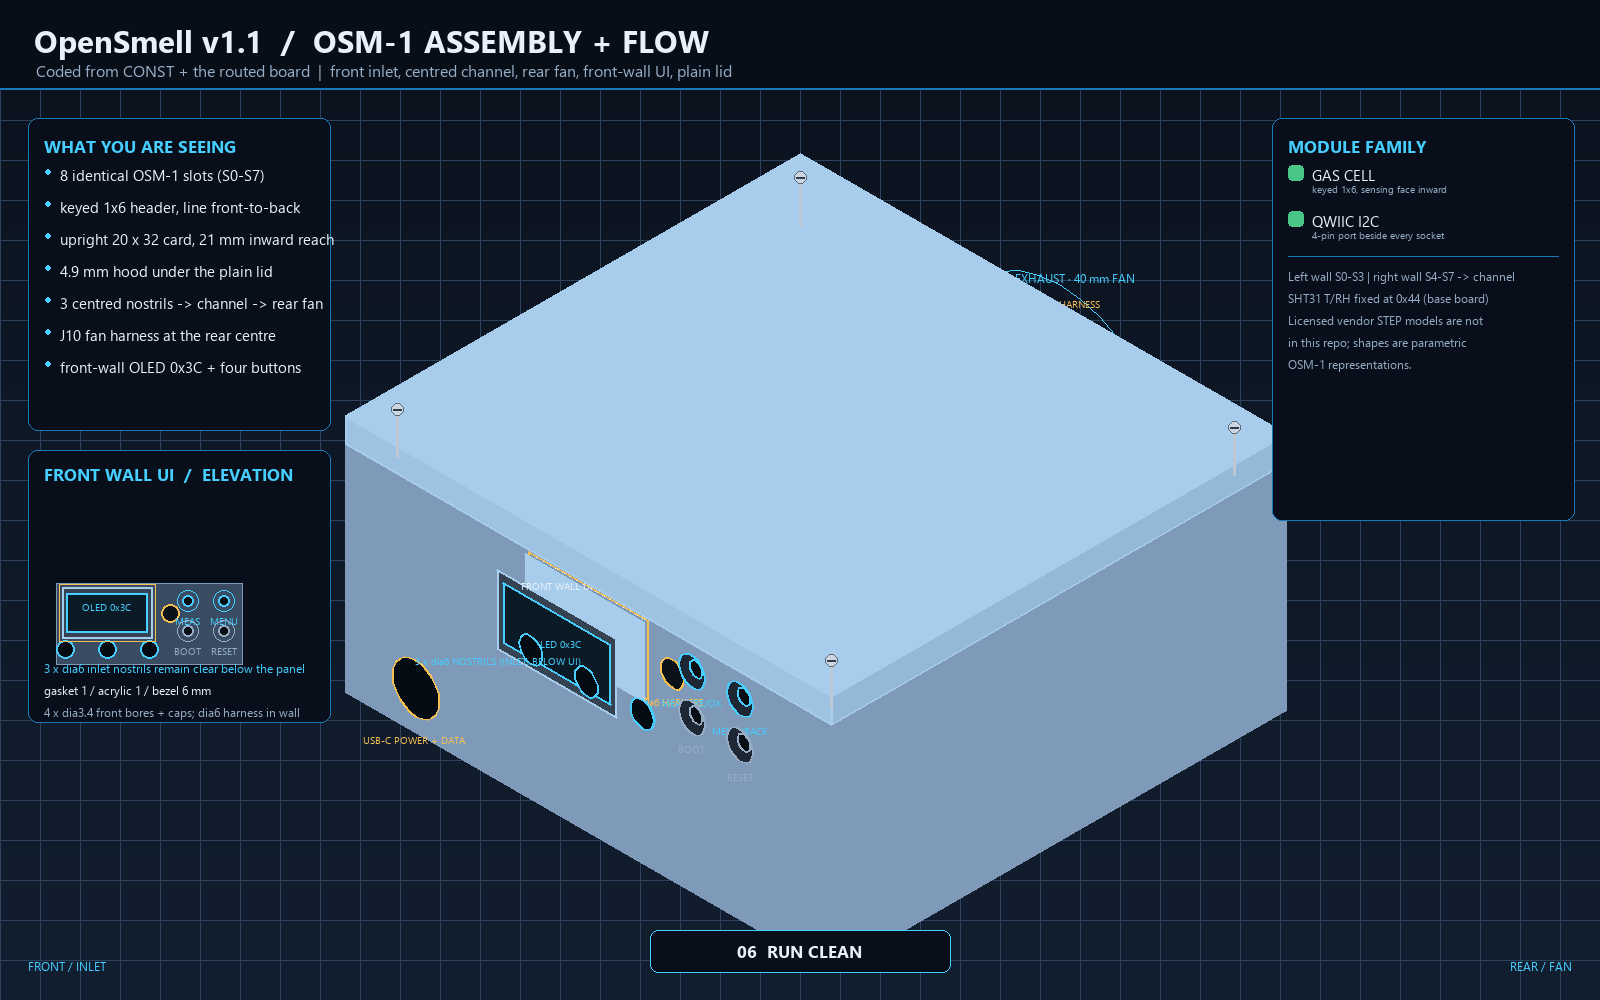
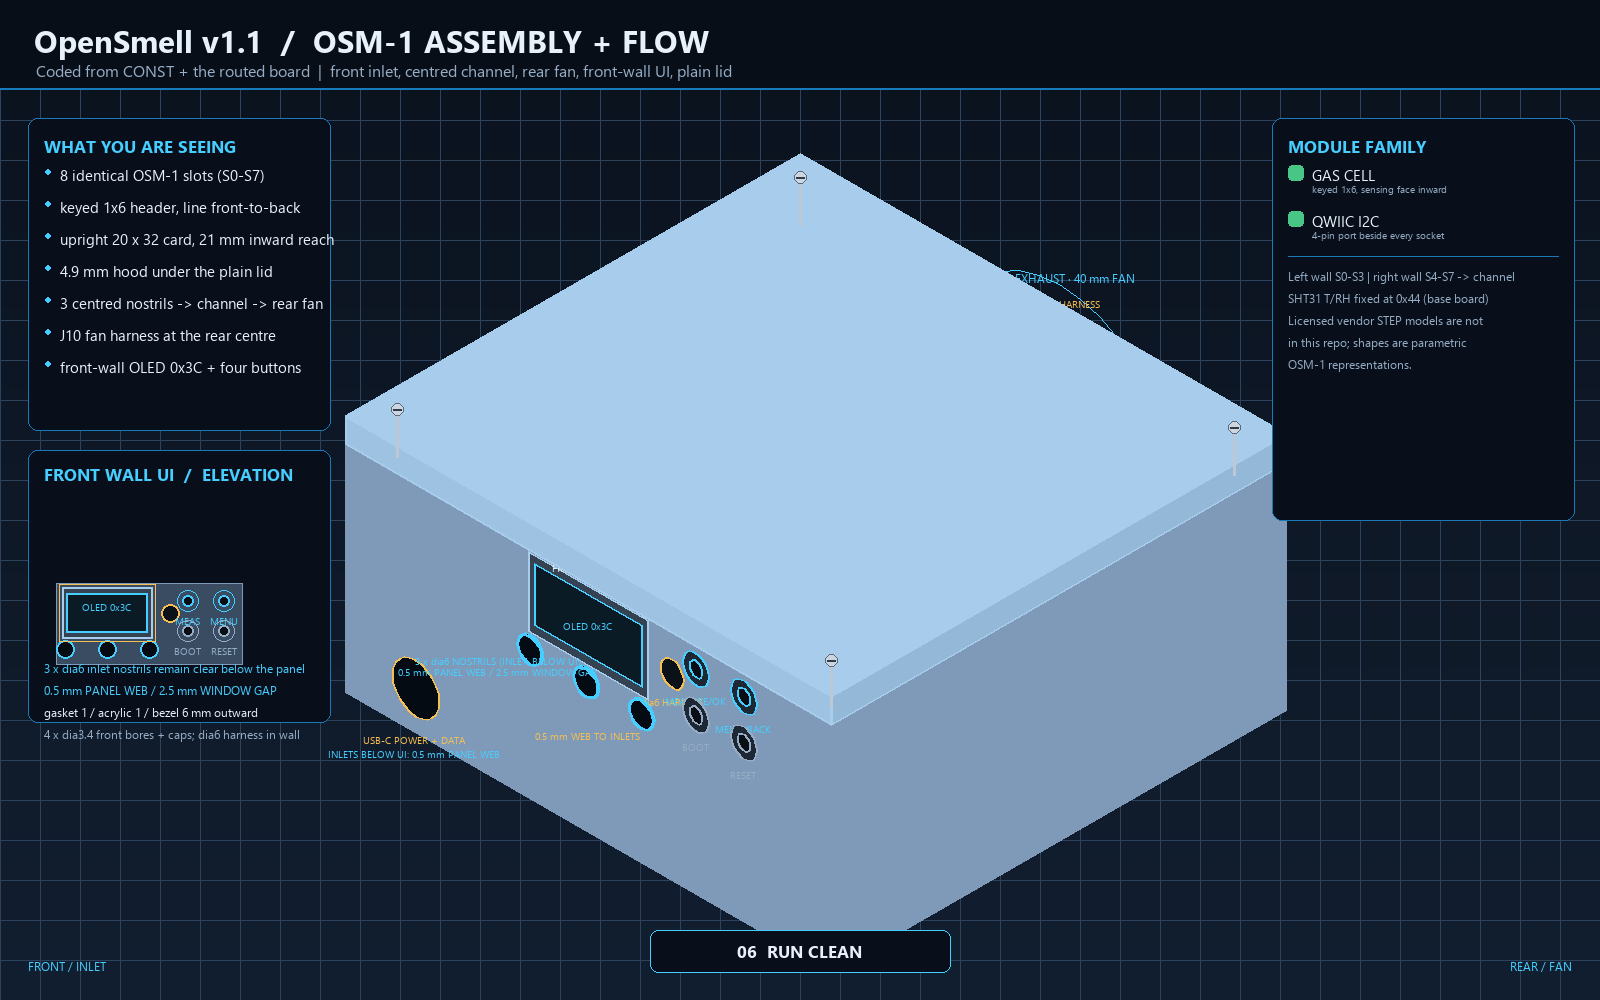
Clarify front-wall UI clearance visuals

Changed region(s): [[0.3125, 0.558, 0.4688, 0.744], [0.0312, 0.682, 0.1875, 0.744], [0.2188, 0.744, 0.25, 0.775]]

diff --git a/tools/render_assembly_visual.py b/tools/render_assembly_visual.py
@@ -60,6 +60,12 @@ WIN_X1 = CONST["DISP_X"] + CONST["DISP_WIN_W"] / 2.0
 WIN_Z0 = CONST["DISP_Z"] - CONST["DISP_WIN_H"] / 2.0
 WIN_Z1 = CONST["DISP_Z"] + CONST["DISP_WIN_H"] / 2.0
 BTN_FRONT = {k: list(v) for k, v in CONST["BTN_FRONT"].items()}
+PANEL_WEB = DISP_Z0 - (CONST["NO_Z"] + CONST["NO_R"])
+WINDOW_GAP = WIN_Z0 - (CONST["NO_Z"] + CONST["NO_R"])
+# The iso view projects the sealed UI on its mounting plane.  True outward
+# depths are dimensioned in the front-wall proof and in the elevation inset;
+# this keeps the inlet bores directly below the panel footprint.
+FRONT_UI_ISO_Y = -0.05
 
 GEOMETRY = {
     "source": "mechanical/constants.py + routed pcb_geometry.json",
@@ -618,27 +624,34 @@ def draw_shell_near(d):
     vcircle(d, CONST["USB_X"], -0.4, CONST["USB_Z"], CONST["USB_R"],
             (5, 11, 19, 255), (*C_GOLD, 190), 2, 24)
     p = P(CONST["USB_X"], -1, CONST["USB_Z"] - CONST["USB_R"] * 1.8)
+    txt(d, (p[0], p[1] + 14), "INLETS BELOW UI: %.1f mm PANEL WEB" % PANEL_WEB,
+        F_TINY, (*C_CYAN, 220), "mm")
     txt(d, (p[0], p[1]), "USB-C POWER + DATA", F_TINY, (*C_GOLD, 220), "mm")
 
 
 def draw_nostril_callout(d):
-    """Keep the inlet bores legible where the bezel projection overlaps them."""
+    """Keep the inlet bores legible in front of the panel projection."""
     for nx in NO_X:
-        vcircle(d, nx, -0.6, CONST["NO_Z"], CONST["NO_R"],
-                (5, 11, 19, 255), (*C_CYAN, 240), 2, 24)
-    p = P(NO_X[0] - 8, -0.8, CONST["NO_Z"] - CONST["NO_R"] * 2.1)
+        vcircle(d, nx, -0.8, CONST["NO_Z"], CONST["NO_R"],
+                (5, 11, 19, 255), (*C_CYAN, 255), 3, 24)
+    p = P(NO_X[0] - 8, -0.9, CONST["NO_Z"] - CONST["NO_R"] * 2.1)
     txt(d, (p[0], p[1]), "3 x dia6 NOSTRILS (INLET, BELOW UI)",
         F_TINY, (*C_CYAN, 245), "mm")
+    p = P(NO_X[0] - 8, -0.9, CONST["NO_Z"] - CONST["NO_R"] * 2.9)
+    txt(d, (p[0], p[1]),
+        "%.1f mm PANEL WEB / %.1f mm WINDOW GAP" % (PANEL_WEB, WINDOW_GAP),
+        F_TINY, (*C_CYAN, 225), "mm")
 
 
 def draw_front_panel_ui(d):
     """Sealed front-wall UI: gasket/acrylic/bezel stack, OLED, grommet, buttons."""
     gt = CONST["DISP_GASKET"]
-    y_gasket = -0.05
-    y_acrylic = -gt
-    y_bezel = -(gt * 2 + CONST["DISP_POD_D"])
-    # The stack layers sit at their true outward depths; the offsets are visible
-    # in the iso view, so the drawing cannot imply a lid or a display enclosure.
+    y_gasket = FRONT_UI_ISO_Y
+    y_acrylic = FRONT_UI_ISO_Y - 0.02
+    y_bezel = FRONT_UI_ISO_Y - 0.04
+    # The iso view projects the whole stack on the fixed front-wall plane so the
+    # inlet bores below it stay clear.  True outward depths are dimensioned in
+    # the front-wall proof and in the elevation inset; the lid stays plain.
     xz_rect(d, DISP_X0, DISP_Z0, DISP_X1, DISP_Z1, y_gasket,
             None, (*C_GOLD, 190), 2)
     xz_rect(d, DISP_X0, DISP_Z0, DISP_X1, DISP_Z1, y_acrylic,
@@ -651,6 +664,9 @@ def draw_front_panel_ui(d):
     txt(d, (p[0], p[1]), "OLED 0x3C", F_TINY, (*C_CYAN, 245), "mm")
     q = P(CONST["DISP_X"], y_bezel - 0.1, DISP_Z1 + CONST["SOCK_P"] * 1.6)
     txt(d, (q[0], q[1]), "FRONT WALL UI", F_TINY, (*C_WHITE, 220), "mm")
+    r = P(CONST["DISP_X"], y_bezel - 0.1, CONST["NO_Z"] - CONST["NO_R"] * 4.0)
+    txt(d, (r[0], r[1]), "%.1f mm WEB TO INLETS" % PANEL_WEB,
+        F_TINY, (*C_GOLD, 220), "mm")
 
     fx, fz = CONST["UI_FEED_X"], CONST["UI_FEED_Z"]
     vcircle(d, fx, y_gasket, fz, CONST["UI_FEED_D"] / 2.0,
@@ -661,11 +677,11 @@ def draw_front_panel_ui(d):
     for name, (bx, bz) in BTN_FRONT.items():
         user = name in ("MEASURE", "MENU")
         ring = (*C_CYAN, 225) if user else (*C_MUTED, 215)
-        vcircle(d, bx, -CONST["DISP_GASKET"] - 0.05, bz, CONST["BTN_HOLE_D"],
+        vcircle(d, bx, y_bezel - 0.01, bz, CONST["BTN_HOLE_D"],
                 (30, 40, 52, 235), ring, 2, 18)
         vcircle(d, bx, y_gasket, bz, CONST["BTN_HOLE_D"] / 2.0,
                 (8, 14, 20, 255), ring, 2, 18)
-        p = P(bx, -CONST["DISP_GASKET"] - 0.1, bz - CONST["BTN_HOLE_D"] * 2)
+        p = P(bx, y_bezel - 0.1, bz - CONST["BTN_HOLE_D"] * 2)
         lab = {"MEASURE": "MEASURE/OK", "MENU": "MENU/BACK"}.get(name, name)
         txt(d, (p[0], p[1]), lab, F_TINY, ring, "mm")
 
@@ -721,10 +737,13 @@ def draw_ui_detail(d):
         "3 x dia6 inlet nostrils remain clear below the panel",
         F_SMALL, (*C_CYAN, 235))
     txt(d, (x0 + 16, 682),
-        "gasket %.0f / acrylic %.0f / bezel %.0f mm" %
+        "%.1f mm PANEL WEB / %.1f mm WINDOW GAP" % (PANEL_WEB, WINDOW_GAP),
+        F_SMALL, (*C_CYAN, 220))
+    txt(d, (x0 + 16, 704),
+        "gasket %.0f / acrylic %.0f / bezel %.0f mm outward" %
         (CONST["DISP_GASKET"], CONST["DISP_GASKET"], CONST["DISP_POD_D"]),
         F_SMALL, C_WHITE)
-    txt(d, (x0 + 16, 704), "4 x dia3.4 front bores + caps; dia6 harness in wall",
+    txt(d, (x0 + 16, 726), "4 x dia3.4 front bores + caps; dia6 harness in wall",
         F_SMALL, C_MUTED)
 
 
@@ -1055,6 +1074,127 @@ def render_header_proof(path):
     print("  wrote", path)
 
 
+def render_front_wall_clearance(path):
+    """True-scale front elevation and wall section at the three inlet bores."""
+    W2, H2 = 1500, 900
+    im = Image.new("RGB", (W2, H2), (240, 244, 249))
+    d = ImageDraw.Draw(im, "RGBA")
+    S = 8.0
+    x0, z0 = 90.0, 720.0
+
+    def fx(x):
+        return x0 + x * S
+
+    def fz(z):
+        return z0 - z * S
+
+    txt(d, (42, 24), "OSM-1 ENCLOSURE / FRONT-WALL CLEARANCE", F_TITLE,
+        (15, 35, 55))
+    txt(d, (44, 64),
+        "True front elevation with wall section at the centre inlet; "
+        "all dimensions derived from CONST",
+        F_SUB, (70, 92, 116))
+
+    d.rectangle([fx(0), fz(CONST["SHH"]), fx(CONST["SH"]), fz(0)],
+                fill=(210, 223, 236), outline=(88, 112, 138), width=2)
+    d.rectangle([fx(DISP_X0), fz(DISP_Z1), fx(DISP_X1), fz(DISP_Z0)],
+                fill=(248, 250, 253), outline=(176, 128, 38), width=2)
+    d.rectangle([fx(WIN_X0), fz(WIN_Z1), fx(WIN_X1), fz(WIN_Z0)],
+                fill=(14, 32, 42), outline=(30, 150, 215), width=2)
+    txt(d, (fx(CONST["DISP_X"]), fz(CONST["DISP_Z"])),
+        "OLED 0x3C", F_TINY, (210, 245, 255), "mm")
+
+    for nx in NO_X:
+        d.ellipse([fx(nx - CONST["NO_R"]), fz(CONST["NO_Z"] + CONST["NO_R"]),
+                   fx(nx + CONST["NO_R"]), fz(CONST["NO_Z"] - CONST["NO_R"])],
+                  fill=(5, 11, 19), outline=(30, 150, 215), width=3)
+    txt(d, (fx(NO_X[0]), fz(CONST["NO_Z"]) + 34),
+        "3 x dia6 NOSTRILS", F_SMALL, (20, 90, 140), "mm")
+
+    gx, gz = CONST["UI_FEED_X"], CONST["UI_FEED_Z"]
+    gr = CONST["UI_FEED_D"] / 2.0
+    d.ellipse([fx(gx - gr), fz(gz + gr), fx(gx + gr), fz(gz - gr)],
+              fill=(246, 191, 82), outline=(120, 78, 20), width=2)
+    for name, (bx, bz) in BTN_FRONT.items():
+        br = CONST["BTN_HOLE_D"] / 2.0
+        d.ellipse([fx(bx - br), fz(bz + br), fx(bx + br), fz(bz - br)],
+                  fill=(20, 32, 42), outline=(30, 150, 215), width=2)
+        txt(d, (fx(bx), fz(bz) + 30), name, F_TINY, (20, 90, 140), "mm")
+
+    # Dimension the two clearances that matter at the inlet face.
+    nx = NO_X[-1]
+    dx_dim = fx(nx + 12)
+    top = CONST["NO_Z"] + CONST["NO_R"]
+    for z, colour in ((top, (30, 150, 215)),
+                      (DISP_Z0, (176, 128, 38)),
+                      (WIN_Z0, (30, 150, 215))):
+        d.line([(dx_dim - 12, fz(z)), (dx_dim + 18, fz(z))],
+               fill=colour, width=2)
+    d.line([(dx_dim + 8, fz(top)), (dx_dim + 8, fz(WIN_Z0))],
+           fill=(30, 150, 215), width=2)
+    d.text((dx_dim + 14, (fz(top) + fz(WIN_Z0)) / 2 - 8),
+           "%.1f mm WINDOW GAP" % WINDOW_GAP, font=F_SMALL,
+           fill=(20, 90, 140))
+    d.text((dx_dim + 14, fz(DISP_Z0) - 16),
+           "%.1f mm PANEL WEB" % PANEL_WEB, font=F_SMALL,
+           fill=(140, 96, 20))
+
+    # Wall section through the centre inlet.  The stack is shown at true depth.
+    sx, sz = 1180.0, 690.0
+    ss = 12.0
+
+    def sec_y(y):
+        return sx - y * ss
+
+    def sec_z(z):
+        return sz - (z - 24.0) * ss
+
+    d.rounded_rectangle([1080, 110, 1480, 830], 10,
+                        fill=(255, 255, 255, 235),
+                        outline=(150, 170, 190), width=2)
+    txt(d, (1100, 126), "WALL SECTION / X = %.0f" % CONST["FAN_X"],
+        F_PANEL, (20, 44, 68))
+    d.rectangle([sec_y(CONST["WALL"]), sec_z(CONST["SHH"]),
+                 sec_y(0), sec_z(0)], fill=(205, 220, 236),
+                outline=(100, 120, 140), width=2)
+    d.rectangle([sec_y(0), sec_z(DISP_Z1), sec_y(-CONST["DISP_GASKET"]),
+                 sec_z(DISP_Z0)], fill=(246, 191, 82),
+                outline=(120, 78, 20), width=2)
+    d.rectangle([sec_y(-CONST["DISP_GASKET"]), sec_z(DISP_Z1),
+                 sec_y(-2 * CONST["DISP_GASKET"]), sec_z(DISP_Z0)],
+                fill=(168, 205, 236), outline=(88, 112, 138), width=2)
+    d.rectangle([sec_y(-2 * CONST["DISP_GASKET"]), sec_z(WIN_Z1),
+                 sec_y(-(2 * CONST["DISP_GASKET"] + CONST["DISP_POD_D"])),
+                 sec_z(WIN_Z0)], fill=(52, 66, 82),
+                outline=(30, 150, 215), width=2)
+    d.rectangle([sec_y(0), sec_z(top), sec_y(-1), sec_z(CONST["NO_Z"] - CONST["NO_R"])],
+                fill=(5, 11, 19), outline=(30, 150, 215), width=2)
+    d.line([(sec_y(-10), sec_z(DISP_Z0)), (sec_y(2), sec_z(DISP_Z0))],
+           fill=(176, 128, 38), width=2)
+    d.line([(sec_y(-10), sec_z(WIN_Z0)), (sec_y(2), sec_z(WIN_Z0))],
+           fill=(30, 150, 215), width=2)
+    d.text((1100, sec_z(WIN_Z0) - 18),
+           "aperture %.1f mm above inlet top" % WINDOW_GAP,
+           font=F_SMALL, fill=(20, 90, 140))
+    d.text((1100, sec_z(DISP_Z0) - 18),
+           "panel footprint %.1f mm above inlet top" % PANEL_WEB,
+           font=F_SMALL, fill=(140, 96, 20))
+    notes = [
+        "gasket %.0f / acrylic %.0f / bezel %.0f mm outward" %
+        (CONST["DISP_GASKET"], CONST["DISP_GASKET"], CONST["DISP_POD_D"]),
+        "UI stack projects on the wall in the animated iso view",
+        "true depths are shown here and on the elevation inset",
+        "plain flat lid: 4 x M3, zero cables or holes",
+    ]
+    y = 750
+    for n in notes:
+        d.text((1100, y), n, font=F_SMALL, fill=(45, 80, 110))
+        y += 20
+
+    im.save(path, pnginfo=geom_pnginfo())
+    print("  wrote", path)
+
+
 def main():
     os.makedirs(OUT, exist_ok=True)
     total = 96
@@ -1073,6 +1213,7 @@ def main():
         frames[idx].save(path, pnginfo=geom_pnginfo())
         print("  wrote", path)
     render_header_proof(os.path.join(OUT, "header_proof.png"))
+    render_front_wall_clearance(os.path.join(OUT, "enclosure_front_wall.png"))
 
 
 if __name__ == "__main__":

diff --git a/tools/verify_visuals.py b/tools/verify_visuals.py
@@ -256,6 +256,15 @@ check("assembly keeps nostrils visible below the front UI",
       and "3 x dia6 inlet nostrils remain clear below the panel" in asm_src
       and "draw_nostril_callout(d)" in asm_src,
       "iso callout + front elevation + panel gap")
+check("assembly projects the UI stack on the fixed wall in iso",
+      "FRONT_UI_ISO_Y" in asm_src
+      and "y_bezel = FRONT_UI_ISO_Y - 0.04" in asm_src
+      and "%.1f mm PANEL WEB / %.1f mm WINDOW GAP" in asm_src,
+      "no depth-projected overlap with the inlet bores")
+check("assembly renders a true front-wall clearance proof",
+      "def render_front_wall_clearance" in asm_src
+      and "aperture %.1f mm above inlet top" in asm_src,
+      "front elevation + wall section, both from CONST")
 check("assembly uses canonical wall/row constants",
       all(k in asm_src for k in ("SOCK_X_L", "SOCK_X_R", "ROW_Y", "NO_Z",
                                  "NO_PITCH", "FAN_Z", "CARD_TOP")),
@@ -280,6 +289,7 @@ needs = {
     "assembly_animation.gif": (1200, 700, 60),
     "assembly_storyboard.png": (1200, 600, 1),
     "header_proof.png": (1200, 700, 1),
+    "enclosure_front_wall.png": (1200, 700, 1),
     "assembly_assembled_iso.png": (1200, 700, 1),
     "assembly_flow_top.png": (1200, 700, 1),
     "assembly_exploded_iso.png": (1200, 700, 1),

diff --git a/README.md b/README.md
@@ -48,6 +48,7 @@ Vendor STEP models for sensors are not in this repository.
 | Full assembly + flow animation | `docs/figures/cad/assembly_animation.gif` |
 | Six-frame storyboard | `docs/figures/cad/assembly_storyboard.png` |
 | Header / upright-card proof | `docs/figures/cad/header_proof.png` |
+| Enclosure front-wall clearance | `docs/figures/cad/enclosure_front_wall.png` |
 | Exploded cutaway | `docs/figures/cad/assembly_exploded_iso.png` |
 | Assembled cutaway | `docs/figures/cad/assembly_assembled_iso.png` |
 | Flow frame | `docs/figures/cad/assembly_flow_top.png` |
@@ -55,6 +56,13 @@ Vendor STEP models for sensors are not in this repository.
 ![Assembly storyboard](docs/figures/cad/assembly_storyboard.png)
 
 ![Header proof](docs/figures/cad/header_proof.png)
+
+![Enclosure front-wall clearance](docs/figures/cad/enclosure_front_wall.png)
+
+The front-wall clearance proof shows the true elevation and wall section: the
+visible aperture starts 2.5 mm above the nostril tops, the panel footprint
+leaves a 0.5 mm wall web, and the bezel/gasket stack projects outward only on
+the fixed front wall.
 
 The header proof shows the 1×6 pin line running **front-to-back** along each side
 wall, the cartridge standing **upright** in the Y-Z plane and facing
